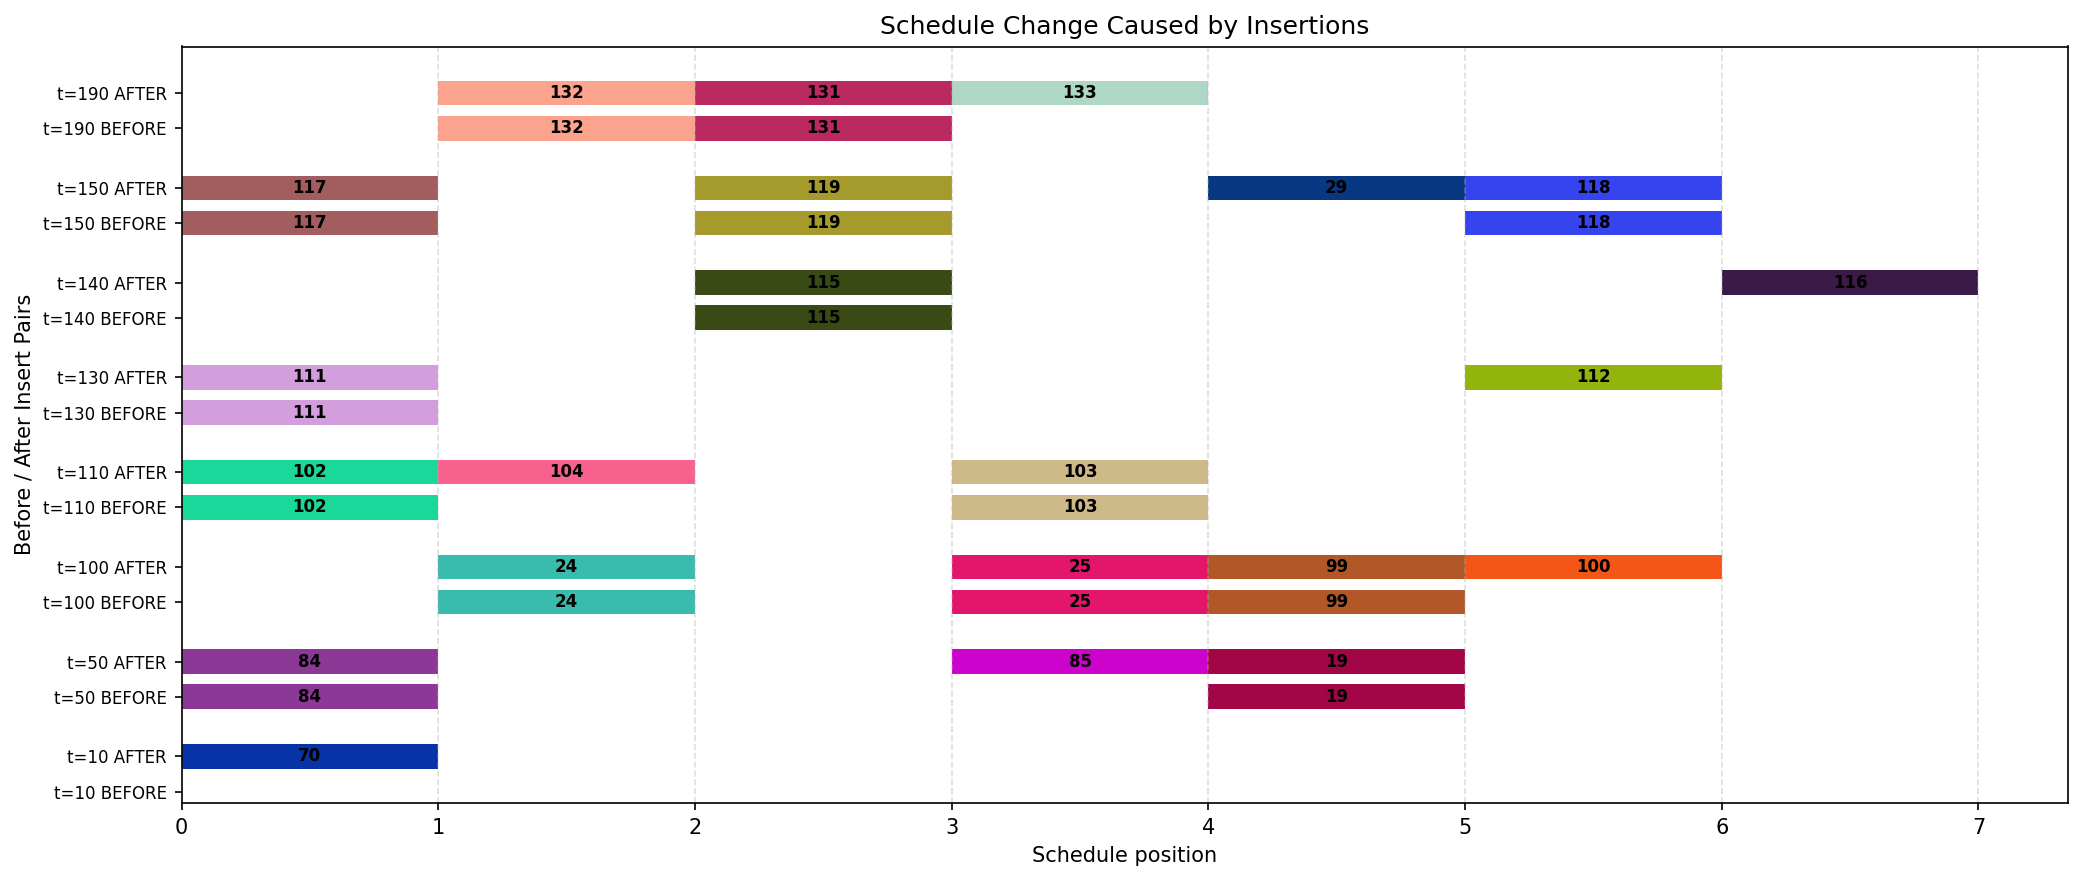
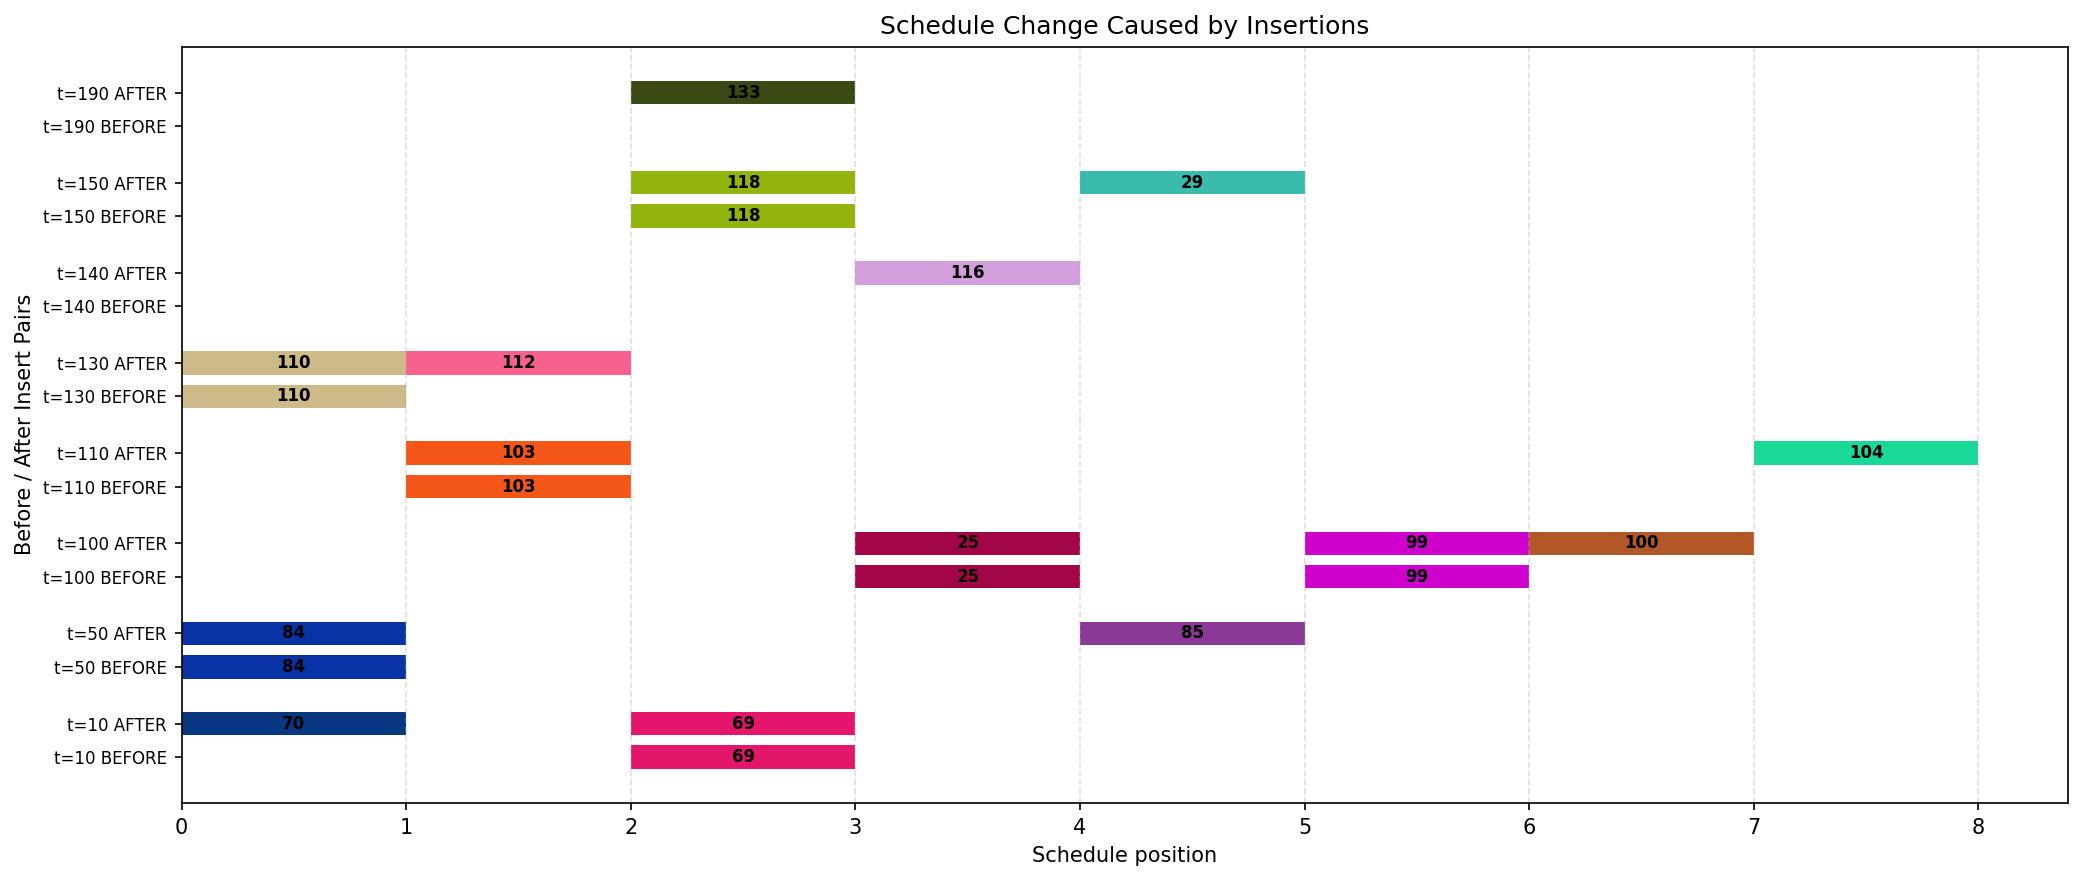
Bruh

diff --git a/PPOPointerNetwork.py b/PPOPointerNetwork.py
@@ -417,9 +417,9 @@ if __name__ == "__main__":
     scheduler = PPOSchedulerAgent(model, H)
     generators = load_generators()
 
-    env = Environment(generators=generators, timesteps=1300000)
+    env = Environment(generators=generators, timesteps=10000)
     env_wrapper = MicroEnv(env)
-    metrics = train_ppo(model, optimizer, scheduler, env_wrapper, episodes=5000, eval_rate=100)
+    metrics = train_ppo(model, optimizer, scheduler, env_wrapper, episodes=2000, eval_rate=100)
         
     np.savez(save_file, 
             policy_loss_train=metrics['policy_loss'], value_loss_train=metrics['value_loss'],